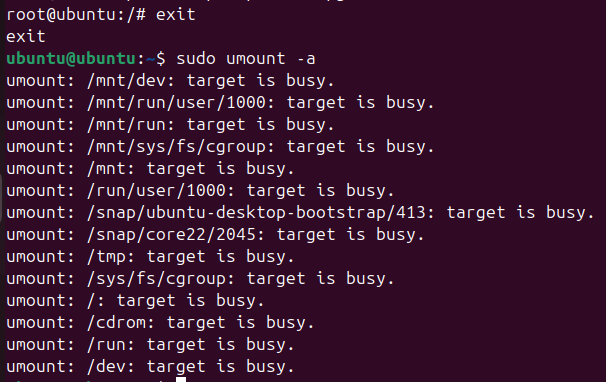
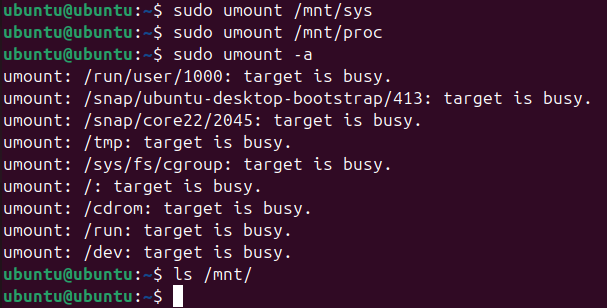
Detalls

Changed region(s): [[0.0, 0.0, 0.9802, 1.0], [0.7426, 0.526, 0.8614, 0.5844], [0.8614, 0.526, 0.9802, 0.5844]]

diff --git a/SP1/index.md b/SP1/index.md
@@ -194,25 +194,31 @@ grub-install /dev/sda; update-grub; exit
 
 ![Reinstal·lació Grub](../images/sp1/grub-reinstall.png)
 
-6. Desmuntem i podem comprovar al reiniciar que el GRUB es troba recuperat.
+6. Entrada **Windows**, error amb EFI
 
-| Desmuntem tot amb `umount -a`             | Comprovem que el grub es troba recuperat            |
-| ----------------------------------------- | --------------------------------------------------- |
-| ![Desmuntem](../images/sp1/desmuntem.png) | ![Grub Recuperat](../images/sp1/grub-recuperat.png) |
+En cas de realitzar allò i reiniciar i no veure l'entrada de Windows (al tenir EFI), realitzem el següent.
 
-### Extra
-
-En cas que posterior a realitzar allò i reiniciar i no veure l'entrada de Windows, realitzem el següent.
-Ho muntem novament tot, però en aquest cas d'extra muntem l'EFI que és el **sda5** en el meu cas.
+- Ho muntem novament tot, però en aquest cas d'extra muntem l'EFI que és el **sda5** en el meu cas.
+- I també instal·lem el paquet **`grub-efi-amd64`** per posteriorment al **grub-install** no doni error en l'arquitectura **`x86_64-efi`** i la ruta **`--efi-directory`**.
 
 ```bash
 sudo mount /dev/sda2 /mnt
+sudo mkdir -p /mnt/boot/efi
 sudo mount /dev/sda5 /mnt/boot/efi
-for i in /sys /proc /run /dev; do sudo mount --rbind "$i" "/mnt$i"; done
+for i in /sys /proc /run /dev; do sudo mount --bind "$i" "/mnt$i"; done
 chroot /mnt
-grub-install --target=x86_64-efi --efi-directory=/mnt/boot/efi --bootloader-id=GRUB
+sudo apt install -y grub-efi-amd64
+grub-install --target=x86_64-efi --efi-directory=/boot/efi --bootloader-id=GRUB
 update-grub
 ```
+
+![Grub EFI](../images/sp1/grubEFI.png)
+
+7. Desmuntem i podem comprovar en reiniciar que el GRUB es troba recuperat.
+
+| Desmuntem tot amb **`umount -a`**         | Comprovem que el grub es troba recuperat            |
+| ----------------------------------------- | --------------------------------------------------- |
+| ![Desmuntem](../images/sp1/desmuntem.png) | ![Grub Recuperat](../images/sp1/grub-recuperat.png) |
 
 ## Punts de restauració
 
